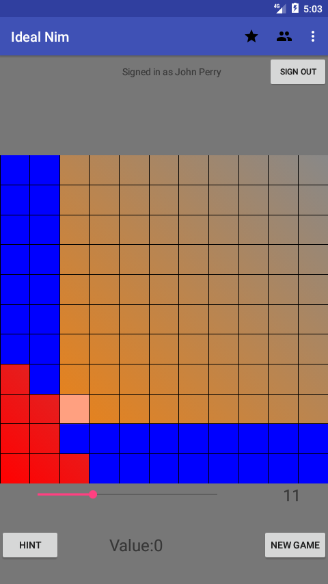
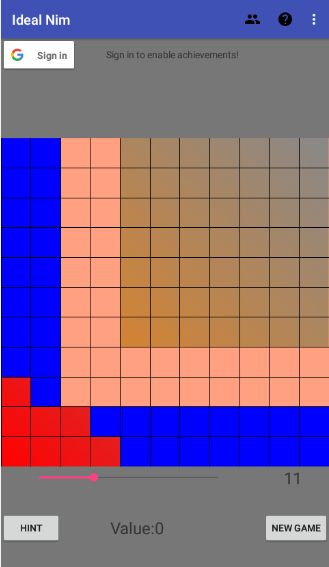
Changes to how the last-played position is displayed (idea of Antonella Perucca). A few other tweaks.

diff --git a/app/src/main/assets/Help.html b/app/src/main/assets/Help.html
@@ -63,6 +63,10 @@ The smallest board you can play on is 7&times;7, but you can extend it to 20&tim
 Gameplay consists in selecting valid squares.
 Once a player selects a valid square,
 all squares &ldquo;northeast&rdquo; of it become invalid.
+<p/>
+Notice that the game highlights which squares the last played position removes;
+this makes clear which position your opponent chose.
+<p/>
 <center>
     <b><i>The player who takes the last valid square wins.</i></b><p/>
     <img src="screenshot_for_game_over_crop.png" width="50%">
@@ -91,10 +95,6 @@ By default, black is invalid, but you can change this in the <a href="#options">
     <td align="center">invalid (unplayable)</td>
 </tr>
 </tbody></table>
-<p/>
-Notice that the last played position is highlighted;
-this makes clear which position your opponent chose.
-<p/>
 
 <h3><a name="hints">Hints and game values</a></h3>
 <p align="center"><img src="screenshot_for_hint_and_value_crop.png"></p>
@@ -108,13 +108,15 @@ Oftentimes, the computer will mark the lower left square, which is not playable!
 In these cases, <i>no move will guarantee a win</i>, and the computer would choose a random square.
 You might as well do the same.
 <p/>
-The computer will also indicate the game&rsquo;s <b>value</b>,
+The computer will also indicate its estimation of the game&rsquo;s <b>value</b>,
 which is a &ldquo;nimber&rdquo; (not a &ldquo;number&rdquo;).
 Nimber arithmetic is consistent but unusual: you have
 4&nbsp;+&nbsp;2&nbsp;=&nbsp;6 and thus both
 6&nbsp;+&nbsp;2&nbsp;=&nbsp;4 and 4&nbsp;+&nbsp;6&nbsp;=&nbsp;2.
 While an understanding of nimber arithmetic will help you immensely,
 it is not strictly necessary.
+In any case, the computer can only guess at values of most unbounded configurations,
+so you should not usually rely on those.
 (You can read more about <a href="https://en.wikipedia.org/wiki/Nimber">nimbers</a> if you like.)
 
 <h3><a name="thinking">&ldquo;Thinking&rdquo;</a></h3>
@@ -142,7 +144,7 @@ with caution.
 <h3><a name="human">Playing a human</a></h3>
 You can play a nearby human using Bluetooth!
 To do so, touch the two-player icon in the toolbar.
-<p align="center"><img src="people.png"></p>
+<p align="center"><img src="people.png" width="20%"></p>
 The app will automatically enable Bluetooth if it is available on your device,
 but you can only play a device with which you are already paired,
 and the app will not pair two devices for you.
@@ -164,7 +166,7 @@ You can do that in your device&rsquo;s Settings (<i>not</i> the app&rsquo;s Opti
 
 <a href="#top">Back to the top</a>
 
-<h2><a name="options"/>Options</h2>
+<h2><a name="options">Options</a></h2>
 
 If you select the &ldquo;Settings&rdquo; (wrench) icon in the toolbar, several options will appear,
 along with some explanations. Here&rsquo;s a little more detail on how some of them work.
@@ -203,7 +205,7 @@ along with some explanations. Here&rsquo;s a little more detail on how some of t
 <p/>
 <a href="#top">Back to the top</a>
 
-<h2><a name="mathematics"/>Mathematical ideas behind the game</h2>
+<h2><a name="mathematics">Mathematical ideas behind the game</a></h2>
 
 Ideal Nim incorporates ideas from
 <b>commutative algebra</b> and <b>combinatorial game theory</b>.
@@ -283,7 +285,7 @@ especially if you can find in your area a university that carries <i>Mathematics
 <p/>
 <a href="#top">Back to the top</a>
 
-<h2><a name="credits"/>Credits</h2>
+<h2><a name="credits">Credits</a></h2>
 Ideal Nim, Version 1.0 &#169; 2017
 <br/>App by <a href="http://www.math.usm.edu/perry/">John Perry</a>.
 <p/>
@@ -302,5 +304,6 @@ The Preference used to select levels is
 used under the conditions of the Apache License 2.0.
 <p/>
 <a href="#top">Back to the top</a>
+<center><img src="matematikon.png" width="25%"></center>
 </body>
 </html>

diff --git a/app/src/main/java/name/cantanima/idealnim/Playfield.java b/app/src/main/java/name/cantanima/idealnim/Playfield.java
@@ -59,6 +59,7 @@ public class Playfield
         context.getResources().getInteger(R.integer.view_seek_max);
     playable = new Ideal();
     played = new Ideal();
+    previous_played = new Ideal();
     if (isInEditMode()) {
       played.add_generator_fast(3, 8);
       played.add_generator_fast(8, 2);
@@ -285,11 +286,28 @@ public class Playfield
       canvas.drawPath(playable_path, playable_paint);
     }
 
-    if (played.T.size() != 0) {
+    if (last_played_position != null) {
+      last_played_path.rewind();
+      Position P = last_played_position;
+      last_played_path.moveTo(P.get_x() * step_x, h - P.get_y() * step_y);
+      last_played_path.lineTo(P.get_x() * step_x, h - view_ymax * step_y);
+      last_played_path.lineTo(view_xmax * step_x, h - view_ymax * step_y);
+      last_played_path.lineTo(view_xmax * step_x, h - P.get_y() * step_y);
+      last_played_path.close();
+      /*last_played_path.lineTo(P.get_x() * step_x, h - (P.get_y() + 1) * step_y);
+      last_played_path.lineTo((P.get_x() + 1) * step_x, h - (P.get_y() + 1) * step_y);
+      last_played_path.lineTo((P.get_x() + 1) * step_x, h - P.get_y() * step_y);*/
+      last_played_path.close();
+      canvas.drawPath(last_played_path, last_played_paint);
+    }
+
+    if (previous_played.T.size() != 0) {
       played_path.rewind();
       played_path.moveTo(w, 0);
-      Iterator<Position> Ti = played.iterator();
+      Iterator<Position> Ti = previous_played.iterator();
       Position P = Ti.next();
+      if (P.equals(last_played_position) && Ti.hasNext())
+        P = Ti.next();
       if (P.get_x() == 0) {
         played_path.lineTo(0, 0);
         played_path.lineTo(0, h - P.get_y() * step_y);
@@ -299,9 +317,11 @@ public class Playfield
       }
       while (Ti.hasNext()) {
         Position Q = Ti.next();
-        played_path.lineTo(Q.get_x() * step_x, h - P.get_y() * step_y);
-        played_path.lineTo(Q.get_x() * step_x, h - Q.get_y() * step_y);
-        P = Q;
+        if (!Q.equals(last_played_position)) {
+          played_path.lineTo(Q.get_x() * step_x, h - P.get_y() * step_y);
+          played_path.lineTo(Q.get_x() * step_x, h - Q.get_y() * step_y);
+          P = Q;
+        }
       }
       if (P.get_x() != w) {
         played_path.lineTo(w, h - P.get_y() * step_y);
@@ -309,17 +329,6 @@ public class Playfield
       }
       played_path.close();
       canvas.drawPath(played_path, played_paint);
-    }
-
-    if (last_played_position != null) {
-      last_played_path.rewind();
-      Position P = last_played_position;
-      last_played_path.moveTo(P.get_x() * step_x, h - P.get_y() * step_y);
-      last_played_path.lineTo(P.get_x() * step_x, h - (P.get_y() + 1) * step_y);
-      last_played_path.lineTo((P.get_x() + 1) * step_x, h - (P.get_y() + 1) * step_y);
-      last_played_path.lineTo((P.get_x() + 1) * step_x, h - P.get_y() * step_y);
-      last_played_path.close();
-      canvas.drawPath(last_played_path, last_played_paint);
     }
 
     if (highlighting) {
@@ -372,6 +381,7 @@ public class Playfield
         view_xmax = view_ymax = (i > j) ? i + 1 : j + 1;
         scale_seekbar.setProgress(view_xmax - view_min_absolute);
       }
+      previous_played = new Ideal(played);
       played.add_generator(i, j, true);
       invalidate();
       opponent.update_with_position(i, j);
@@ -387,6 +397,7 @@ public class Playfield
 
   public void get_human_move(Position P) {
     int i = P.get_x(), j = P.get_y();
+    previous_played = new Ideal(played);
     played.add_generator(i, j, true);
     if (i >= view_xmax || j >= view_ymax) {
       view_xmax = view_ymax = (i > j) ? i + 1 : j + 1;
@@ -455,6 +466,7 @@ public class Playfield
             if (playable.contains(i, j) && !played.contains(i, j)) {
               // add generator
               last_played_position = new Position(i, j);
+              previous_played = new Ideal(played);
               played.add_generator(i, j, true);
               opponent.update_with_position(i, j);
               if (playable.equals(played))
@@ -664,7 +676,10 @@ public class Playfield
 
   }
 
-  public void reset_last_played_position() { last_played_position = null; }
+  public void reset_last_played_position() {
+    last_played_position = null;
+    previous_played = new Ideal();
+  }
 
   public void reset_view() {
     view_xmax = view_ymax = 7;
@@ -702,7 +717,7 @@ public class Playfield
       bg_paint = new Paint(), line_paint = new Paint(), invalid_paint = new Paint();
   protected Path playable_path = new Path(), played_path = new Path(), last_played_path = new Path();
 
-  protected Ideal playable, played;
+  protected Ideal playable, played, previous_played;
 
   protected Position hint_position, last_played_position = null;
 
